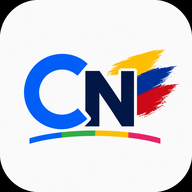
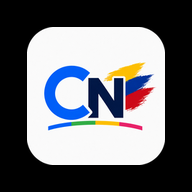
Corregir hallazgos de la auditoría de main: errores Build/Rxnq, íconos maskable y copy desactualizado
- chromanom-analytics.gs / juego.html: los errores de los modos Constructor
  y Reacciones (errores_build, errores_rxnq) se calculaban en el cliente
  pero nunca llegaban a guardarse — faltaban columnas en HEADERS/appendRow
  y errores_rxnq ni siquiera se calculaba en buildPayload(). Se agregan
  como columnas nuevas al FINAL del Registro para no correr el índice de
  columnas que otras funciones leen por posición fija.
- manifest.json: los íconos maskable (icon-192/512-maskable.png) eran
  copias idénticas de los íconos normales, sin zona de seguridad — un
  ícono adaptable de Android los recortaría. Se regeneran con el logo
  reducido y centrado sobre fondo sólido, y se declaran en manifest.json
  con "purpose":"maskable" (antes no se referenciaban en absoluto).
- index.html: el copy decía "39 reacciones" pero reacciones.html tiene
  41 tarjetas reales.

Claude-Session: https://claude.ai/code/session_01ADnz973xfSFtpUsgxgGRSP

diff --git a/index.html b/index.html
@@ -541,7 +541,7 @@ footer span{color:var(--naranja);font-weight:700}
       <div class="mod-desc" style="color:rgba(255,255,255,.85)">Reacciones características de alcanos, cicloalcanos, alquenos, alquinos, aromáticos, halogenuros, alcoholes, aminas, carbonílicos, ácidos y sus derivados. Mecanismo paso a paso, condiciones, ejemplos y mini-quiz por cada tipo.</div>
     </div>
     <div class="mod-bottom" style="padding:10px 28px;background:rgba(0,0,0,.18);display:flex;align-items:center;justify-content:space-between;color:rgba(255,255,255,.9);font-size:.8rem;font-weight:700">
-      <div class="mod-chips"><span class="mc">10 pestañas</span><span class="mc">39 reacciones</span><span class="mc">Mini-quiz</span></div>
+      <div class="mod-chips"><span class="mc">10 pestañas</span><span class="mc">41 reacciones</span><span class="mc">Mini-quiz</span></div>
       <span class="mod-arrow">→</span>
     </div>
   </a>
@@ -708,7 +708,7 @@ const TOUR=[
     title:'④ Reacciones Orgánicas',
     hdrColor:'linear-gradient(135deg,#0e7490,#0891b2)',
     body:`
-      <p>El módulo de <strong>Reacciones</strong> explica cómo reaccionan los grupos funcionales: 10 pestañas, 39 reacciones, con mecanismo paso a paso animado.</p>
+      <p>El módulo de <strong>Reacciones</strong> explica cómo reaccionan los grupos funcionales: 10 pestañas, 41 reacciones, con mecanismo paso a paso animado.</p>
       <div class="tour-feat-row">
         <div class="tour-feat"><strong>⚗ Mecanismo animado</strong>Cada reacción se dibuja átomo por átomo: reactivo → condición → producto.</div>
         <div class="tour-feat"><strong>📖 Glosario previo</strong>12 conceptos clave (carbocatión, nucleófilo, Markovnikov...) antes de entrar al detalle.</div>

diff --git a/juego.html b/juego.html
@@ -7169,7 +7169,7 @@ function sendSessionStart(){
     nivel:     NIVEL_LABELS[currentLevel]||currentLevel,
     trigger:   'inicio',
     correctas: 0, total: 0, timeouts: 0, pct: 0,
-    errores_mc:0, errores_drag:0, errores_id:0, errores_write:0, errores_build:0,
+    errores_mc:0, errores_drag:0, errores_id:0, errores_write:0, errores_build:0, errores_rxnq:0,
     errores_por_tema:'{}', aciertos_por_tema:'{}', moleculas_falladas:''
   });
   fetch(ANALYTICS_URL,{method:'POST',body,headers:{'Content-Type':'text/plain'},keepalive:true}).catch(()=>{});
@@ -7198,6 +7198,7 @@ function buildPayload(trigger){
     errores_id:    typeStats.id.tot   -typeStats.id.ok,
     errores_write: typeStats.write.tot-typeStats.write.ok,
     errores_build: typeStats.build.tot-typeStats.build.ok,
+    errores_rxnq:  typeStats.rxnq.tot -typeStats.rxnq.ok,
     errores_por_tema:   JSON.stringify(topicErrors),
     aciertos_por_tema:  JSON.stringify(topicOk),
     moleculas_falladas: failedMols
